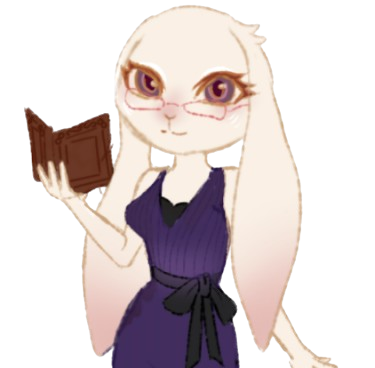
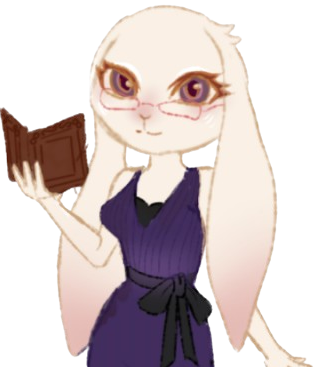
ajustado o cabecalho e as img das professoras

diff --git a/app/css/salaminigame.css b/app/css/salaminigame.css
@@ -1,4 +1,10 @@
 
+/* CONFIGURAÇÕES GERAIS */
+
+* {
+    box-sizing: border-box;
+}
+
 body {
     margin: 0;
     padding: 0;
@@ -11,6 +17,7 @@ body {
 
 img {
     display: block;
+    max-width: 100%;
 }
 
 /* CABEÇALHO */
@@ -19,94 +26,85 @@ img {
     display: flex;
     width: 100%;
     height: 150px;
-    padding: 0 30px;
     background-color: #796761;
+    justify-content: left;
     align-items: center;
-    justify-content: space-between;
-    gap: 20px;
 }
 
 .cabecalho a {
     text-decoration: none;
 }
 
-/* LOGO */
-
-.img-cabecalho {
-    margin: 0;
-    flex-shrink: 0;
+.cabecalho p {
+    color: white;
+    font-size: 30px;
 }
 
-.img-cabecalho img {
-    width: 150px;
-    height: auto;
-    margin: 0;
-}
 
-/* MENU */
+/* FOTO DE PERFIL DO CABEÇALHO */
 
-.cabecalho nav {
-    flex: 1;
-}
-
-.cabecalho nav ul {
+.fotoConta {
+    width: 70px;
+    height: 70px;
+    border-radius: 50%;
+    background-color: #ffffff;
+    position: relative;
+    overflow: hidden;
     display: flex;
     align-items: center;
     justify-content: center;
-    gap: 30px;
-    padding: 0;
-    margin: 0;
-}
-
-.cabecalho nav ul li {
-    list-style: none;
-    margin: 0;
-}
-
-.cabecalho nav ul li a {
-    text-decoration: none;
-}
-
-.cabecalho nav ul li p {
-    color: white;
-    font-size: 25px;
-    margin: 0;
-}
-
-/* AVATAR */
-
-.cabecalho > a {
-    margin: 0;
     flex-shrink: 0;
 }
 
-.fotoConta {
-    position: relative;
-    width: 75px;
-    height: 75px;
-    border-radius: 50%;
-    background-color: white;
-    overflow: hidden;
-    flex-shrink: 0;
-}
+/* PERSONAGEM DO CABEÇALHO */
 
-.personagemCabecalho {
-    position: absolute;
+.fotoConta .personagemCabecalho {
     width: 100%;
     height: 100%;
     object-fit: contain;
+    object-position: center;
+    position: absolute;
+    bottom: 0;
+    left: 0;
     z-index: 1;
+    border-radius: 50%;
 }
 
-.acessorioCabecalho {
-    position: absolute;
-    width: 65%;
-    height: 65%;
+/* ACESSÓRIO DO CABEÇALHO */
+
+.fotoConta .acessorioCabecalho {
+    width: 55%;
+    height: 55%;
     object-fit: contain;
+    position: absolute;
     top: 0;
     left: 50%;
     transform: translateX(-50%);
     z-index: 2;
+    border-radius: 0;
+}
+
+
+/* NAVEGAÇÃO */
+
+.loginTitulo p {
+    color: #796761;
+    font-size: 30px;
+}
+
+nav ul {
+    display: flex;
+    padding-left: 0;
+    margin-top: 25px;
+}
+
+nav ul li {
+    list-style: none;
+    margin-right: 130px;
+}
+
+nav ul li a {
+    text-decoration: none;
 }
 
 .login {
@@ -118,6 +116,13 @@ img {
     align-items: center;
     border-radius: 20px;
 }
+
+.img-cabecalho a img {
+    list-style: none;
+    margin-right: 700px;
+}
+
+
 
 /* RODAPÉ */
 
@@ -1433,7 +1438,8 @@ img {
     height: 300px;
     display: flex;
     justify-self: flex-end;
-    margin-top: -300px;
+    margin-top: -250px;
+    
 }
 
 .prof img {
